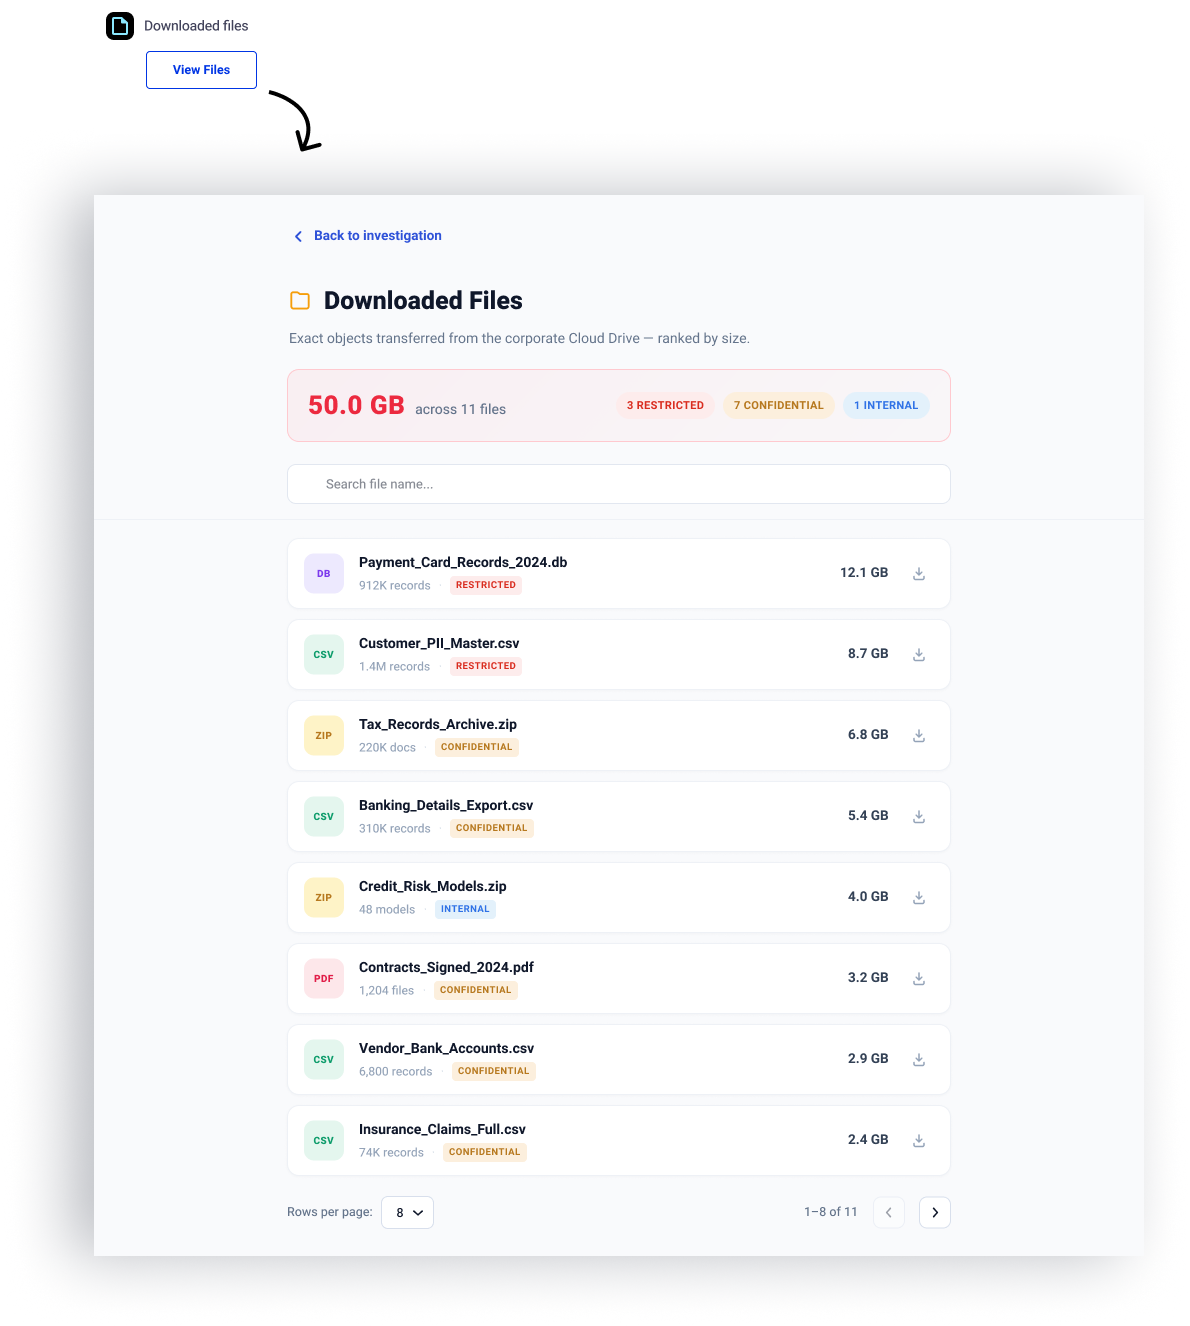
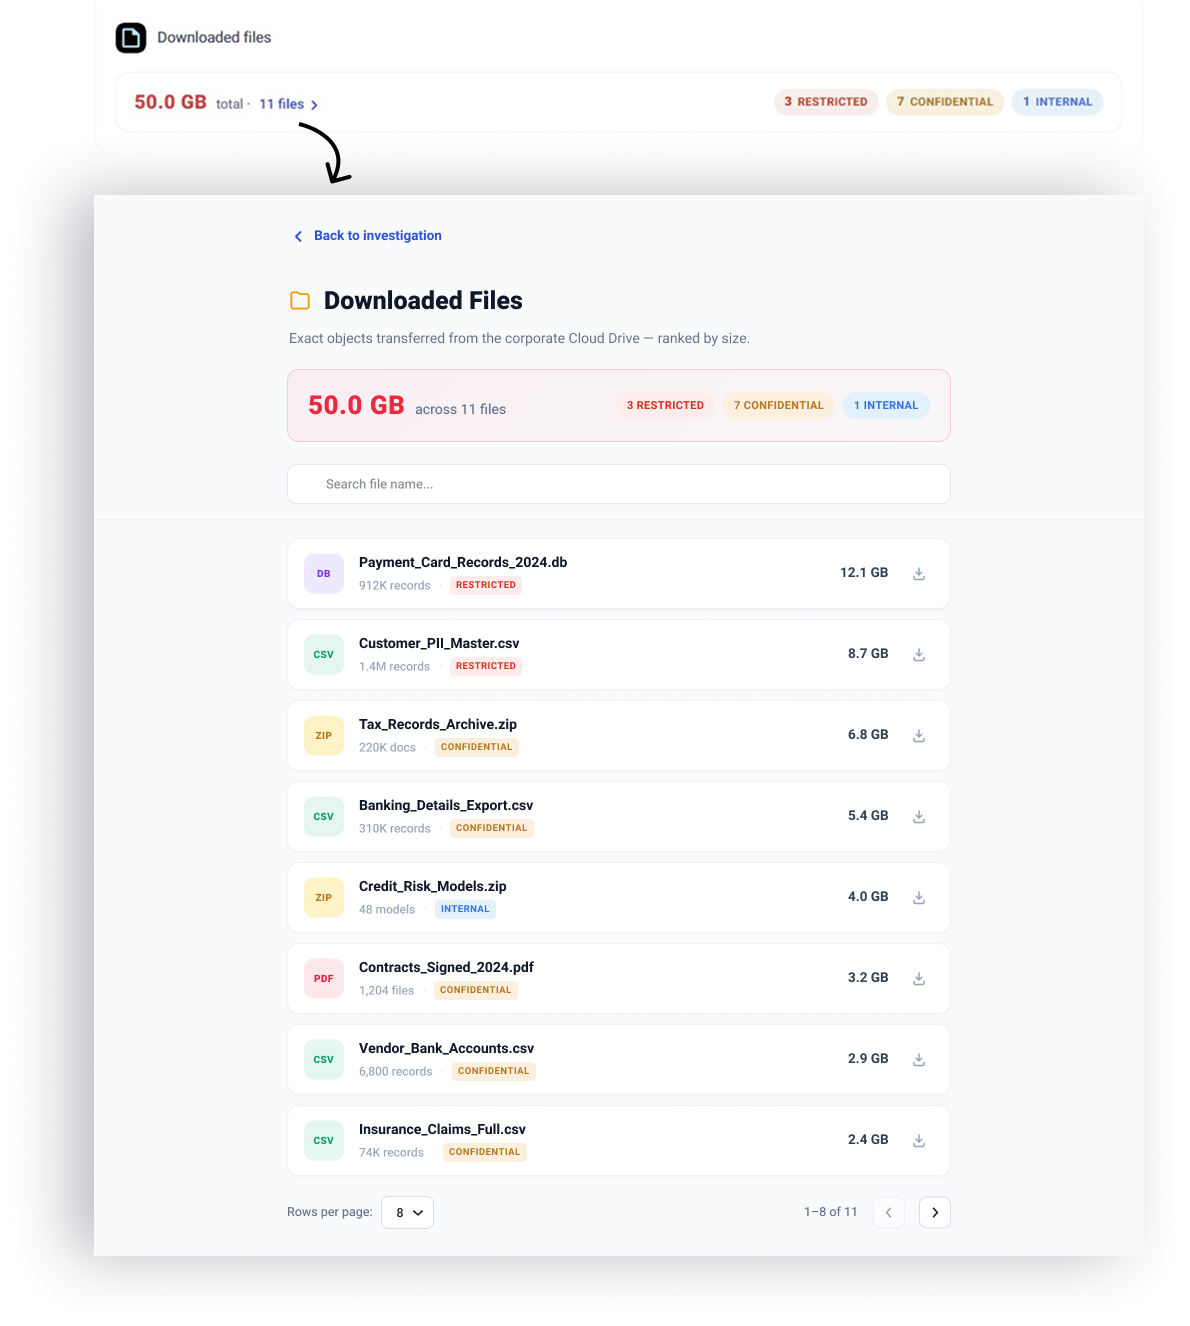
misc. fixes

Changed region(s): [[0.0933, 0.0, 0.2798, 0.1237], [0.6529, 0.0618, 0.9328, 0.0928], [0.2798, 0.1237, 0.3109, 0.1546]]

diff --git a/akamai/src/app/App.tsx b/akamai/src/app/App.tsx
@@ -417,6 +417,8 @@ function IncidentDetailPane({ onViewFiles, open }: { onViewFiles: () => void; op
       [data-ai-summary] * { color: #191921 !important; }
       [data-ai-summary] .ai-link { color: #0029F8 !important; cursor: pointer; }
       @keyframes fpTypeBlink { 0%, 100% { opacity: 1; } 50% { opacity: 0; } }
+      @keyframes fpRowFlash { 0% { outline-color: rgba(96,122,255,0.9); } 100% { outline-color: rgba(96,122,255,0); } }
+      .fp-row-flash { outline: 2px solid rgba(96,122,255,0); outline-offset: -2px; border-radius: 6px; animation: fpRowFlash 1.6s ease-out; }
       .fp-type-cursor { display: inline-block; width: 2px; height: 0.95em; background: #191921; margin-left: 1px; vertical-align: text-bottom; animation: fpTypeBlink 0.9s steps(1) infinite; }
     `;
     document.head.appendChild(style);
@@ -635,30 +637,28 @@ function IncidentDetailPane({ onViewFiles, open }: { onViewFiles: () => void; op
       actionRaf = requestAnimationFrame(tryWire);
     }
 
-    // "Downloaded files" card → turn the "11 files · 50 GB" pill into a "View files"
-    // button (matching style) that slides in the Downloaded Files panel.
+    // "Downloaded files" card → replace the "11 files · 50 GB" pill/button with a
+    // subtle mini dashboard whose "N files" text opens the Downloaded Files panel.
     const filesPill = (Array.from(frame94Root.querySelectorAll("p")) as HTMLElement[])
       .find((el) => el.textContent?.trim() === "11 files · 50 GB");
     if (filesPill) {
-      filesPill.textContent = "View files";
-      filesPill.style.color = "#2f52d8";
-      filesPill.style.fontSize = "14px";
-      const filesBtn = (filesPill.closest('[data-name="Button"]') as HTMLElement | null) ?? filesPill;
-      // Task: remove the open-in-new-tab icon, leaving just the "View files" text
-      filesBtn.querySelector('[data-name="cuida:open-in-new-tab-outline"]')?.remove();
-      filesBtn.style.cursor = "pointer";
-      filesBtn.setAttribute("role", "button");
-      filesBtn.setAttribute("tabindex", "0");
-      const openFiles = (e: Event) => { e.stopPropagation(); onViewFiles(); };
-      const filesKey = (e: KeyboardEvent) => {
-        if (e.key === "Enter" || e.key === " ") { e.preventDefault(); onViewFiles(); }
-      };
-      filesBtn.addEventListener("click", openFiles);
-      filesBtn.addEventListener("keydown", filesKey as EventListener);
-      actionCleanups.push(() => {
-        filesBtn.removeEventListener("click", openFiles);
-        filesBtn.removeEventListener("keydown", filesKey as EventListener);
-      });
+      const filesCard = filesPill.closest('[data-name="Section"]') as HTMLElement | null;
+      const cardBody = filesCard?.querySelector('[class*="px-[19px]"]') as HTMLElement | null;
+
+      // Remove the old "View files" button entirely.
+      const filesBtn = filesPill.closest('[data-name="Button"]') as HTMLElement | null;
+      (filesBtn ?? filesPill).remove();
+
+      // Add the mini dashboard; its "N files" acts as the panel trigger.
+      if (cardBody && !cardBody.querySelector("[data-files-dashboard]")) {
+        const dash = document.createElement("div");
+        dash.setAttribute("data-files-dashboard", "");
+        dash.style.cssText = "width:100%;";
+        cardBody.appendChild(dash);
+        const root = createRoot(dash);
+        root.render(<DownloadedFilesMiniDashboard onViewFiles={onViewFiles} />);
+        actionCleanups.push(() => { root.unmount(); dash.remove(); });
+      }
     }
 
     // Insert a "User profile" section as the first Supportive Data sub-section
@@ -849,6 +849,49 @@ function IncidentDetailPane({ onViewFiles, open }: { onViewFiles: () => void; op
         el.classList.add("fp-nav-link-muted");
         el.addEventListener("click", scrollToSupportiveData);
       });
+
+    // Timeline device/IP labels → scroll to the relevant Supportive Data view.
+    const scrollElIntoView = (target: HTMLElement, flash = false) => {
+      const cr = frame94Root.getBoundingClientRect();
+      const sr = target.getBoundingClientRect();
+      frame94Root.scrollTo({
+        top: frame94Root.scrollTop + sr.top - cr.top - HEADER_HEIGHT,
+        behavior: "smooth",
+      });
+      if (flash) {
+        target.classList.remove("fp-row-flash");
+        void target.offsetWidth; // restart the animation
+        target.classList.add("fp-row-flash");
+      }
+    };
+    const scrollToDevice = (deviceName: string) => () => {
+      const row = frame94Root.querySelector(`[data-device="${deviceName}"]`) as HTMLElement | null;
+      const fallback = (Array.from(frame94Root.querySelectorAll("p")) as HTMLElement[])
+        .find((el) => el.textContent?.trim() === "Associated devices");
+      const target = row ?? fallback;
+      if (target) scrollElIntoView(target, !!row);
+    };
+    const scrollToDownloadedFiles = () => {
+      const dl = (Array.from(frame94Root.querySelectorAll("p")) as HTMLElement[])
+        .find((el) => el.textContent?.trim() === "Downloaded files");
+      if (dl) scrollElIntoView(dl);
+    };
+    const timelineLinks: Array<{ text: string; handler: () => void }> = [
+      { text: "DESKTOP-A7K2", handler: scrollToDevice("DESKTOP-A7K2") },
+      { text: "win11-A7K2", handler: scrollToDevice("win11-A7K2") },
+      { text: "192.167.1.50:5987", handler: scrollToDevice("win11-A7K2") },
+      { text: "srv-fileserver01", handler: scrollToDownloadedFiles },
+    ];
+    timelineLinks.forEach(({ text, handler }) => {
+      (Array.from(frame94Root.querySelectorAll("p")) as HTMLElement[])
+        .filter((el) => el.textContent?.trim() === text)
+        .forEach((el) => {
+          el.classList.add("fp-nav-link");
+          el.style.cursor = "pointer";
+          el.addEventListener("click", handler);
+          actionCleanups.push(() => el.removeEventListener("click", handler));
+        });
+    });
 
     // "Unknown device" → scroll to the "Associated devices" section
     const unknownDeviceLabel = (Array.from(frame94Root.querySelectorAll("p")) as HTMLElement[])
@@ -1255,6 +1298,7 @@ function AssociatedDevicesTable() {
         return (
           <div
             key={d.name}
+            data-device={d.name}
             title={d.suspicious ? "Suspicious device used to download the files" : undefined}
             style={{
               display: "grid", gridTemplateColumns: ASSOC_GRID, alignItems: "center",
@@ -1324,6 +1368,66 @@ function DownloadIcon({ color = "#94a3b8" }: { color?: string }) {
       <path d="M8 2.5v7m0 0L5.2 6.7M8 9.5l2.8-2.8" stroke={color} strokeWidth="1.5" strokeLinecap="round" strokeLinejoin="round" />
       <path d="M3 11v1.5A1.5 1.5 0 0 0 4.5 14h7a1.5 1.5 0 0 0 1.5-1.5V11" stroke={color} strokeWidth="1.5" strokeLinecap="round" strokeLinejoin="round" />
     </svg>
+  );
+}
+
+// Mini dashboard injected into the main-panel "Downloaded files" card.
+// Reuses CLASS_STYLE (secondary Downloaded Files panel colors) for the chips.
+function DownloadedFilesMiniDashboard({ onViewFiles }: { onViewFiles: () => void }) {
+  const total = DOWNLOADED_FILES.length;
+  const counts = { RESTRICTED: 0, CONFIDENTIAL: 0, INTERNAL: 0 } as Record<DownloadedFile["cls"], number>;
+  DOWNLOADED_FILES.forEach((f) => { counts[f.cls] += 1; });
+  const totalGB = DOWNLOADED_FILES.reduce((sum, f) => sum + (parseFloat(f.size) || 0), 0);
+
+  const chip = (label: string, n: number, cls: DownloadedFile["cls"]) => (
+    <span
+      key={cls}
+      style={{
+        display: "inline-flex", alignItems: "center", gap: 5,
+        background: CLASS_STYLE[cls].bg, color: CLASS_STYLE[cls].text,
+        fontFamily: F.bold, fontSize: 10.5, letterSpacing: "0.03em",
+        borderRadius: 999, padding: "4px 10px", whiteSpace: "nowrap",
+      }}
+    >
+      <span style={{ fontFamily: F.extrabold, fontSize: 11.5 }}>{n}</span>
+      {label}
+    </span>
+  );
+
+  return (
+    <div
+      style={{
+        width: "100%", marginTop: 18,
+        display: "flex", alignItems: "center", justifyContent: "space-between",
+        gap: 16, flexWrap: "wrap",
+        background: "#ffffff",
+        border: "1px solid #eef1f6", borderRadius: 12, padding: "13px 16px",
+      }}
+    >
+      <div style={{ display: "flex", alignItems: "baseline", gap: 8 }}>
+        <span style={{ fontFamily: F.extrabold, fontSize: 18, color: "#ec2a3f", letterSpacing: "0.3px" }}>
+          {totalGB.toFixed(1)} GB
+        </span>
+        <span style={{ fontFamily: F.medium, fontSize: 12.5, color: "#64748b" }}>total ·</span>
+        <span
+          role="button"
+          tabIndex={0}
+          onClick={(e) => { e.stopPropagation(); onViewFiles(); }}
+          onKeyDown={(e) => { if (e.key === "Enter" || e.key === " ") { e.preventDefault(); onViewFiles(); } }}
+          style={{ display: "inline-flex", alignItems: "center", gap: 3, fontFamily: F.semibold, fontSize: 12.5, color: "#2f52d8", cursor: "pointer" }}
+        >
+          {total} files
+          <svg width="12" height="12" viewBox="0 0 12 12" fill="none" style={{ flexShrink: 0, marginTop: 1 }}>
+            <path d="M4.5 2.5L8 6l-3.5 3.5" stroke="#2f52d8" strokeWidth="1.6" strokeLinecap="round" strokeLinejoin="round" />
+          </svg>
+        </span>
+      </div>
+      <div style={{ display: "flex", gap: 7, flexWrap: "wrap" }}>
+        {chip("RESTRICTED", counts.RESTRICTED, "RESTRICTED")}
+        {chip("CONFIDENTIAL", counts.CONFIDENTIAL, "CONFIDENTIAL")}
+        {chip("INTERNAL", counts.INTERNAL, "INTERNAL")}
+      </div>
+    </div>
   );
 }
 

diff --git a/akamai/src/imports/Frame427320261-1/index.tsx b/akamai/src/imports/Frame427320261-1/index.tsx
@@ -4240,10 +4240,10 @@ function Icon23() {
         <div className="relative size-[15px]" data-name="Icon">
           <svg className="absolute block inset-0 size-full" fill="none" preserveAspectRatio="none" viewBox="0 0 15 15">
             <g id="Icon">
-              <path d={svgPaths.p64f0440} id="Vector" stroke="var(--stroke-0, black)" strokeLinecap="round" strokeLinejoin="round" strokeWidth="1.25" />
-              <path d="M7.5 6.875H7.50625" id="Vector_2" stroke="var(--stroke-0, black)" strokeLinecap="round" strokeLinejoin="round" strokeWidth="1.25" />
-              <path d="M10 6.875H10.0063" id="Vector_3" stroke="var(--stroke-0, black)" strokeLinecap="round" strokeLinejoin="round" strokeWidth="1.25" />
-              <path d="M5 6.875H5.00625" id="Vector_4" stroke="var(--stroke-0, black)" strokeLinecap="round" strokeLinejoin="round" strokeWidth="1.25" />
+              <path d={svgPaths.p64f0440} id="Vector" stroke="var(--stroke-0, #0035E4)" strokeLinecap="round" strokeLinejoin="round" strokeWidth="1.25" />
+              <path d="M7.5 6.875H7.50625" id="Vector_2" stroke="var(--stroke-0, #0035E4)" strokeLinecap="round" strokeLinejoin="round" strokeWidth="1.25" />
+              <path d="M10 6.875H10.0063" id="Vector_3" stroke="var(--stroke-0, #0035E4)" strokeLinecap="round" strokeLinejoin="round" strokeWidth="1.25" />
+              <path d="M5 6.875H5.00625" id="Vector_4" stroke="var(--stroke-0, #0035E4)" strokeLinecap="round" strokeLinejoin="round" strokeWidth="1.25" />
             </g>
           </svg>
         </div>
@@ -4255,9 +4255,9 @@ function Icon23() {
 function SecondaryButton() {
   return (
     <div className="bg-white content-stretch flex gap-[8px] h-[34px] items-center px-[16px] relative rounded-[6px] shrink-0" data-name="Secondary Button">
-      <div aria-hidden className="absolute border border-black border-solid inset-0 pointer-events-none rounded-[6px]" />
+      <div aria-hidden className="absolute border border-[#0035E4] border-solid inset-0 pointer-events-none rounded-[6px]" />
       <Icon23 />
-      <p className="[word-break:break-word] font-['Heebo:Medium',sans-serif] font-medium leading-[20px] relative shrink-0 text-[14px] text-black whitespace-nowrap">Comment</p>
+      <p className="[word-break:break-word] font-['Heebo:Medium',sans-serif] font-medium leading-[20px] relative shrink-0 text-[14px] text-[#0035E4] whitespace-nowrap">Comment</p>
     </div>
   );
 }
